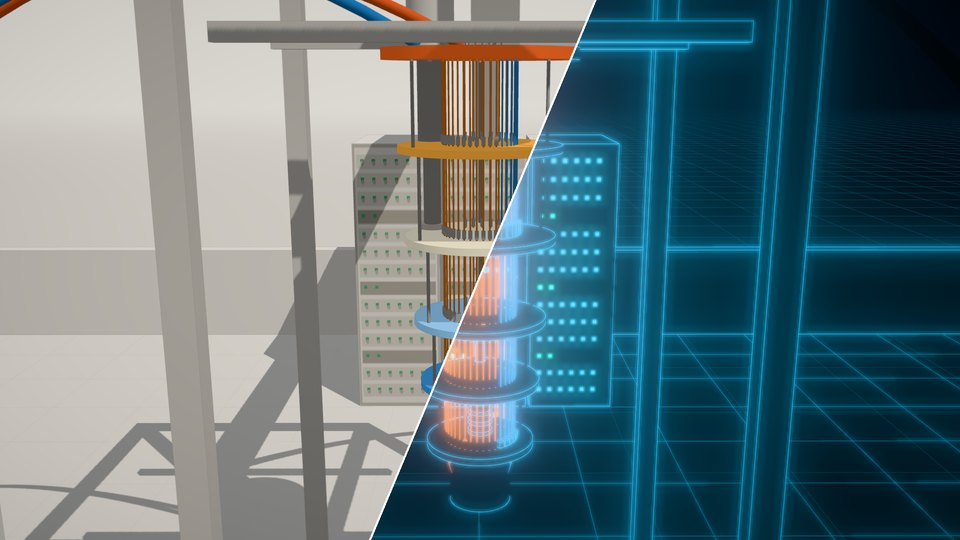
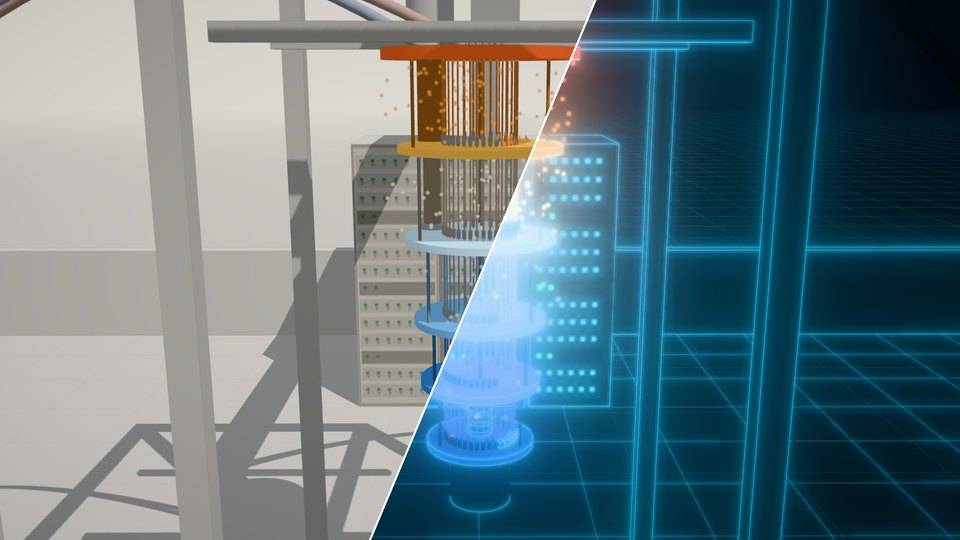
Quantum Computer: fridge coloured by temperature stage, heat-noise particles, no Warm switch
Every part inside the refrigerator takes the colour of its stage, also in
the blueprint look. Heat-noise particles thin out and slow down from plate
to plate. The Cold/Warm switch is removed; the card shows three fixed lines.
Card image, demos page text, sitemap and README follow.

Claude-Session: https://claude.ai/code/session_01YUkR2ymH5Hn7edDKs1J3vK

diff --git a/demos/quantum-computer/quantum.js b/demos/quantum-computer/quantum.js
@@ -48,7 +48,7 @@ const THERM=new THREE.Color('#c4c8cc');
 function pmat(day,night,o={}){
   const m=new THREE.MeshStandardMaterial({color:day,roughness:o.rough??0.86,metalness:o.metal??0,
     polygonOffset:true,polygonOffsetFactor:1,polygonOffsetUnits:1,...(o.extra||{})});
-  pal.push({m,day:new THREE.Color(day),night:new THREE.Color(night),therm:o.therm??1});
+  pal.push({m,day:new THREE.Color(day),night:new THREE.Color(night),therm:o.therm??1,stage:o.stage,glow:m.emissive.clone()});
   return m;
 }
 const glow=(c)=>({emissive:new THREE.Color(c),emissiveIntensity:0});
@@ -59,11 +59,11 @@ const M={
   dark:pmat('#8e8a83','#13213a'),
   pad:pmat('#ebe8e2','#060d19'),
   metal:pmat('#bdbab4','#101b30',{rough:.4,metal:.35}),
-  copper:pmat('#ead9c6','#161c2c',{rough:.5,metal:.1}),
-  pipeC:pmat('#2f7fc1','#0c2a48',{therm:0,extra:glow('#2f9be6')}),
-  pipeW:pmat('#d9643a','#3a1a10',{therm:0,extra:glow('#ff7a3d')}),
-  coaxD:pmat('#cf7a3a','#3a1a10',{therm:0,rough:.5,extra:glow('#ff9a4d')}),
-  coaxR:pmat('#3f8ccc','#0c2a48',{therm:0,rough:.5,extra:glow('#4fc3ff')}),
+  copper:pmat('#ead9c6','#161c2c',{rough:.5,metal:.1,stage:5}),
+  pipeC:pmat('#2f7fc1','#0c2a48',{extra:glow('#2f9be6')}),
+  pipeW:pmat('#d9643a','#3a1a10',{extra:glow('#ff7a3d')}),
+  coaxD:pmat('#cf7a3a','#3a1a10',{stage:5,rough:.5,extra:glow('#ff9a4d')}),
+  coaxR:pmat('#3f8ccc','#0c2a48',{stage:5,rough:.5,extra:glow('#4fc3ff')}),
   led:pmat('#58c48c','#0d3a2a',{therm:0,extra:glow('#59e0ff')}),
 };
 const groundMat=pmat('#dedad3','#050b16');groundMat.polygonOffset=false;
@@ -150,31 +150,38 @@ for(const s of [-1,1]){B.add(box(2*FR+0.09,0.09,0.09),M.grey,0,FLOOR+3.1,s*FR);B
 /* cryostat: plates (index 0 = room temperature flange) */
 const PY=[2.62,2.30,1.98,1.68,1.44,1.20], PR=[0.34,0.29,0.27,0.24,0.22,0.20], PT=[0.04,0.025,0.025,0.025,0.025,0.025];
 const GOLD=new THREE.Color('#dcc48f'), GOLD_NIGHT=new THREE.Color('#141d2e');
-const TCOL=['#d9643a','#e8a655','#d9d4c2','#8fc0e6','#4f97d8','#2f6fc1'].map(c=>new THREE.Color(c));
-const HOT=new THREE.Color('#d9643a');
+const TCOL=['#d9643a','#e9b45f','#b9d6e6','#74afe0','#3f84d2','#2a5cb5'].map(c=>new THREE.Color(c));
+// per-stage materials, so cables, rods and the dilution unit take the colour of the stage they sit in
+const GAPS=[0,1,2,3,4];
+const coaxDg=GAPS.map(i=>pmat('#cf7a3a','#3a1a10',{stage:i+.5,rough:.5,extra:glow('#ff9a4d')}));
+const coaxRg=GAPS.map(i=>pmat('#3f8ccc','#0c2a48',{stage:i+.5,rough:.5,extra:glow('#4fc3ff')}));
+const rodM=GAPS.map(i=>pmat('#bdbab4','#101b30',{stage:i+.5,rough:.4,metal:.35}));
+const cuAt=st=>pmat('#ead9c6','#161c2c',{rough:.5,metal:.1,stage:st});
+const COAX=[M.coaxD,M.coaxR,...coaxDg,...coaxRg];
 const plateM=PY.map(()=>new THREE.MeshStandardMaterial({color:'#dcc48f',roughness:.42,metalness:.25,polygonOffset:true,polygonOffsetFactor:1,polygonOffsetUnits:1}));
 PY.forEach((y,i)=>B.add(cyl(PR[i],PR[i],PT[i],48),plateM[i],0,y,0));
 for(let i=0;i<5;i++){const y0=PY[i]-PT[i]/2,y1=PY[i+1]+PT[i+1]/2;
-  for(const a of [30,150,270]){const r=PR[i+1]-0.03;B.add(cyl(.006,.006,y0-y1,8),M.metal,r*Math.cos(a*DEG),(y0+y1)/2,r*Math.sin(a*DEG),{edges:false});}}
+  for(const a of [30,150,270]){const r=PR[i+1]-0.03;B.add(cyl(.006,.006,y0-y1,8),rodM[i],r*Math.cos(a*DEG),(y0+y1)/2,r*Math.sin(a*DEG),{edges:false});}}
 // pulse tube cooler
 const PTX=0.215*Math.cos(215*DEG),PTZ=0.215*Math.sin(215*DEG);
 B.add(cyl(.085,.085,.26,24),M.light,PTX,2.77,PTZ);
 B.add(box(.17,.12,.21),M.grey,PTX,2.96,PTZ);
-B.add(cyl(.05,.05,PY[0]-PY[1]-0.03,16),M.metal,PTX,(PY[0]+PY[1])/2,PTZ);
-B.add(cyl(.032,.032,PY[1]-PY[2]-0.025,16),M.metal,PTX,(PY[1]+PY[2])/2,PTZ);
-B.add(cyl(.05,.05,.02,16),M.copper,PTX,PY[2]+0.0225,PTZ);
+B.add(cyl(.05,.05,PY[0]-PY[1]-0.03,16),rodM[0],PTX,(PY[0]+PY[1])/2,PTZ);
+B.add(cyl(.032,.032,PY[1]-PY[2]-0.025,16),rodM[1],PTX,(PY[1]+PY[2])/2,PTZ);
+B.add(cyl(.05,.05,.02,16),cuAt(2),PTX,PY[2]+0.0225,PTZ);
 // dilution unit down the middle
-B.add(cyl(.055,.055,.06,24),M.copper,0,PY[3]-0.0425,0);
-B.add(cyl(.012,.012,PY[3]-PY[5]-0.1,10),M.metal,0,(PY[3]+PY[5])/2-0.02,0,{edges:false});
-for(let k=0;k<5;k++) B.add(cyl(.046,.046,.014,24),M.copper,0,lerp(PY[4]-0.04,PY[5]+0.04,k/4),0);
-B.add(cyl(.02,.02,.09,12),M.copper,0,(PY[3]+PY[4])/2,0);
+const cu3=cuAt(3),cu35=cuAt(3.5),cu45=cuAt(4.5);
+B.add(cyl(.055,.055,.06,24),cu3,0,PY[3]-0.0425,0);
+B.add(cyl(.012,.012,PY[3]-PY[5]-0.1,10),rodM[4],0,(PY[3]+PY[5])/2-0.02,0,{edges:false});
+for(let k=0;k<5;k++) B.add(cyl(.046,.046,.014,24),cu45,0,lerp(PY[4]-0.04,PY[5]+0.04,k/4),0);
+B.add(cyl(.02,.02,.09,12),cu35,0,(PY[3]+PY[4])/2,0);
 B.add(cyl(.06,.06,.06,24),M.copper,0,PY[5]-0.0425,0);
 // coaxial lines
 const LR=0.13, LINES=[];
 const arc=(n,a0,a1,kind)=>{for(let k=0;k<n;k++){const a=lerp(a0,a1,n>1?k/(n-1):0)*DEG;LINES.push({x:LR*Math.cos(a),z:LR*Math.sin(a),kind,a});}};
 arc(12,65,175,'d');arc(6,5,55,'r');arc(8,245,345,'d');
-for(const l of LINES){const mat=l.kind==='d'?M.coaxD:M.coaxR;
-  for(let i=0;i<5;i++){const y0=PY[i]-PT[i]/2,y1=PY[i+1]+PT[i+1]/2;B.add(cyl(.0035,.0035,y0-y1,6),mat,l.x,(y0+y1)/2,l.z,{edges:false});}
+for(const l of LINES){const mats=l.kind==='d'?coaxDg:coaxRg;
+  for(let i=0;i<5;i++){const y0=PY[i]-PT[i]/2,y1=PY[i+1]+PT[i+1]/2;B.add(cyl(.0035,.0035,y0-y1,6),mats[i],l.x,(y0+y1)/2,l.z,{edges:false});}
   B.add(cyl(.006,.006,.03,8),M.metal,l.x,PY[0]+0.035,l.z,{edges:false});
   if(l.kind==='d'){for(let i=1;i<6;i++) B.add(box(.014,.03,.014),M.dark,l.x,PY[i]+PT[i]/2+0.02,l.z,{edges:false});}
   else{B.add(box(.03,.045,.022),M.grey,l.x,PY[2]+0.04,l.z,{ry:-l.a});B.add(box(.022,.022,.022),M.grey,l.x,PY[5]+0.03,l.z,{ry:-l.a});}
@@ -226,10 +233,10 @@ B.build(lab);
 const CANS=[[0.345,0.62,2.60,'#f4f2ed'],[0.30,0.72,2.285,'#e9e4d8'],[0.275,0.82,1.965,'#e0d9c8']].map(([r,y0,y1,col])=>{
   const mat=pmat(col,'#0b1424',{extra:{transparent:true}}),ed=emat(1),g=new THREE.Group();lab.add(g);
   const cb=new Bucket();cb.add(cyl(r,r,y1-y0,48),mat,0,(y0+y1)/2,0);cb.build(g,ed);return {g,mat,ed};});
-const shieldMat=pmat('#e3e0d9','#0a1221',{extra:{transparent:true}}),shieldEdge=emat(1);
+const shieldMat=pmat('#e3e0d9','#0a1221',{stage:5,extra:{transparent:true}}),shieldEdge=emat(1);
 const shield=new THREE.Group();lab.add(shield);
 {const sb=new Bucket();sb.add(cyl(.115,.115,.22,32),shieldMat,0,1.07,0);sb.build(shield,shieldEdge);}
-const lidMat=pmat('#ead9c6','#161c2c',{rough:.5,metal:.1,extra:{transparent:true}}),lidEdge=emat(1);
+const lidMat=pmat('#ead9c6','#161c2c',{rough:.5,metal:.1,stage:5,extra:{transparent:true}}),lidEdge=emat(1);
 const lid=new THREE.Group();lab.add(lid);
 {const lb=new Bucket();lb.add(box(.06,.005,.06),lidMat,0,0,0);lb.build(lid,lidEdge);}
 const LID_Y=CY+0.0035;
@@ -369,9 +376,15 @@ const sigU=pointsLayer(R_LINES.length*3,0.05,'#3d9bf0',lab);
 function linePath(l){const pts=[V(0.05,3.3,RACK_Z),V(0.05,3.3,0.02),V(l.x,PY[0]+0.05,l.z),V(l.x,PY[5]+0.0125,l.z)];const c=[0];for(let i=1;i<pts.length;i++)c.push(c[i-1]+pts[i].distanceTo(pts[i-1]));return {pts,c};}
 D_LINES.forEach(l=>l.path=linePath(l));R_LINES.forEach(l=>l.path=linePath(l));
 function along(path,u,out){const d=u*path.c[path.c.length-1];let i=1;while(i<path.c.length-1&&d>path.c[i])i++;const t=(d-path.c[i-1])/(path.c[i]-path.c[i-1]);return out.copy(path.pts[i-1]).lerp(path.pts[i],t);}
-const NOISE_N=260;
-const noise=pointsLayer(NOISE_N,0.07,'#ff6a3a',lab);
-const noiseSeed=Array.from({length:NOISE_N},()=>[rnd(),rnd(),rnd(),rnd()]);
+// heat noise between the plates: crowded and restless at the top, almost none and almost still at the bottom
+const NOISE_N=260, NOISE_W=[0.50,0.33,0.13,0.03,0.01], NOISE_SP=[1,0.55,0.22,0.08,0.03];
+const noiseSeed=[];
+{let g=0,acc=NOISE_W[0];for(let i=0;i<NOISE_N;i++){while(g<4&&i/NOISE_N>=acc){g++;acc+=NOISE_W[g];}noiseSeed.push([rnd(),rnd(),rnd(),rnd(),g]);}}
+const noise=(()=>{const g=new THREE.BufferGeometry();g.setAttribute('position',new THREE.BufferAttribute(new Float32Array(NOISE_N*3),3));
+  const col=new Float32Array(NOISE_N*3),c=new THREE.Color();
+  noiseSeed.forEach((sd,i)=>{const st=sd[4]+0.5,k=Math.min(4,Math.floor(st));c.copy(TCOL[k]).lerp(TCOL[k+1],st-k);col.set([c.r,c.g,c.b],i*3);});
+  g.setAttribute('color',new THREE.BufferAttribute(col,3));
+  const p=new THREE.Points(g,new THREE.PointsMaterial({size:0.055,map:dotTex,vertexColors:true,transparent:true,depthWrite:false,opacity:0}));p.frustumCulled=false;lab.add(p);return p;})();
 const chipDot=pointsLayer(1,0.11,'#8fe6ff',lab);chipDot.geometry.attributes.position.array.set([0,CY+0.002,0]);chipDot.material.blending=THREE.AdditiveBlending;
 
 /* night grid */
@@ -483,12 +496,9 @@ addEventListener('keydown',e=>{const tg=e.target;if(tg&&(tg.isContentEditable||/
 
 /* ---------------- UI state ---------------- */
 const QS=new URLSearchParams(location.search);
-let look=QS.get('look')||'auto',temp=QS.get('temp')||'cold';
+let look=QS.get('look')||'auto';
 const press=(sel,attr,val)=>document.querySelectorAll(sel).forEach(b=>b.setAttribute('aria-pressed',b.dataset[attr]===String(val)));
-const tempStats=document.getElementById('tempStats');
-function renderTemp(){tempStats.innerHTML=[1,2,3].map(i=>`<dt>${escHtml(txt(`fridge.stat${i}.label`))}</dt><dd>${escHtml(txt(`fridge.stat${i}.${temp}`))}</dd>`).join('');press('[data-temp]','temp',temp);}
-renderTemp();press('[data-look]','look',look);
-document.querySelectorAll('[data-temp]').forEach(b=>b.onclick=()=>{temp=b.dataset.temp;renderTemp();});
+press('[data-look]','look',look);
 document.querySelectorAll('[data-look]').forEach(b=>b.onclick=()=>{look=b.dataset.look;press('[data-look]','look',look);});
 const U=1.44;
 const maxScroll=()=>document.documentElement.scrollHeight-innerHeight;
@@ -542,7 +552,7 @@ function flipQubit(k,time=nowS()){ if(qec.state==='fail'||k===undefined||k<0||!d
   if(!qec.flips.size){qec.state='idle';qec.idleAt=time;return;}
   if(qec.state!=='detect'){qec.state='detect';qec.t0=time;}else qec.t0=Math.max(qec.t0,time-0.5);}
 renderQec();
-COPY.onChange(k=>{if(k.startsWith('label.'))CALLOUTS.forEach(c=>{if(c.key===k)c.w=0;});if(k.startsWith('fridge.stat'))renderTemp();if(k.startsWith('qec.stat'))renderQec();if(k.startsWith('state.status'))renderState();});
+COPY.onChange(k=>{if(k.startsWith('label.'))CALLOUTS.forEach(c=>{if(c.key===k)c.w=0;});if(k.startsWith('qec.stat'))renderQec();if(k.startsWith('state.status'))renderState();});
 
 /* ---- pointer ---- */
 let ptx=0,pty=0,mx=0,my=0;
@@ -559,7 +569,7 @@ function resize(){const w=innerWidth,h=innerHeight;arrowMat.resolution.set(w,h);
 addEventListener('resize',resize);resize();
 
 const FORCE_P=QS.has('p')?parseFloat(QS.get('p')):null;
-let pS=FORCE_P??0,night=0,warmT=temp==='warm'?1:0,last=performance.now(),frames=0;
+let pS=FORCE_P??0,night=0,last=performance.now(),frames=0;
 const cam={t:V(0,0,0),d:1,az:0,el:0};
 const tmpC=new THREE.Color(),tmpV=V(0,0,0),pv=V(0,0,0);
 const WHITE=new THREE.Color(1,1,1),RED=new THREE.Color('#ff3b30'),AMBER=new THREE.Color('#ffb02e'),
@@ -568,7 +578,7 @@ const arrowArr=arrowGeo.attributes.instanceStart.data;
 
 function fmtLen(m){if(m>=1000)return (m/1000).toFixed(1)+' km';if(m>=1)return m.toFixed(m>=100?0:1)+' m';if(m>=0.01)return (m*100).toFixed(1)+' cm';
   if(m>=0.001)return (m*1000).toFixed(1)+' mm';if(m>=1e-6)return (m*1e6).toFixed(m>=1e-4?0:1)+' µm';return (m*1e9).toFixed(0)+' nm';}
-function tempAt(c,opened){if(warmT>0.5||c.d>5||opened<0.5)return '293 K';const y=c.t.y;
+function tempAt(c,opened){if(c.d>5||opened<0.5)return '293 K';const y=c.t.y;
   return y>2.46?'293 K':y>2.14?'50 K':y>1.83?'4 K':y>1.56?'0.8 K':y>1.32?'0.1 K':'0.01 K';}
 
 function frame(now){
@@ -582,7 +592,6 @@ function frame(now){
   const nightTarget=look==='auto'?nightAuto:(look==='blueprint'?1:0);
   night+=(nightTarget-night)*(1-Math.exp(-dt*(look==='auto'?14:3.5)));
   if(FORCE_P!==null) night=nightTarget;
-  warmT+=((temp==='warm'?1:0)-warmT)*(1-Math.exp(-dt*4));
   const closeT=1-sstep(1.235,1.27,p);
   const thermal=sstep(.215,.26,p)*(1-sstep(.375,.41,p));
   const canT=CANS.map((c,i)=>sstep(.17+i*.02,.235+i*.02,p)*closeT);
@@ -595,8 +604,9 @@ function frame(now){
   const hallT=sstep(1.265,1.335,p);
 
   /* palette */
-  for(const e of pal){e.m.color.copy(e.day).lerp(THERM,thermal*0.5*e.therm).lerp(e.night,night);}
-  plateM.forEach((m,i)=>{tmpC.copy(TCOL[i]).lerp(HOT,warmT);m.color.copy(GOLD).lerp(tmpC,thermal*0.95).lerp(GOLD_NIGHT,night);m.emissive.copy(tmpC);m.emissiveIntensity=thermal*0.38*(1-night);});
+  const stageCol=st=>{const i=Math.min(4,Math.floor(st));return tmpC.copy(TCOL[i]).lerp(TCOL[i+1],st-i);};
+  for(const e of pal){e.m.color.copy(e.day);if(e.stage!==undefined){e.m.color.lerp(stageCol(e.stage),thermal*0.92);if(e.glow.r+e.glow.g+e.glow.b>0)e.m.emissive.copy(e.glow).lerp(tmpC,thermal);}else e.m.color.lerp(THERM,thermal*0.7*e.therm);e.m.color.lerp(e.night,night);}
+  plateM.forEach((m,i)=>{tmpC.copy(TCOL[i]);m.color.copy(GOLD).lerp(tmpC,thermal*0.95).lerp(GOLD_NIGHT,night);m.emissive.copy(tmpC);m.emissiveIntensity=thermal*lerp(0.38,0.55,night);});
   for(const m of edgeMats){m.color.copy(EDGE_DAY).lerp(EDGE_NIGHT,night);m.opacity=lerp(.2,.85,night)*m.userData.k;m.visible=m.opacity>0.003;}
   gridMat.opacity=night*0.08*(1-sstep(0.5,2.5,1/Math.max(cam.d,1e-9)));
   scene.background.copy(DAY_BG).lerp(NIGHT_BG,night);scene.fog.color.copy(scene.background);
@@ -604,7 +614,7 @@ function frame(now){
   hemi.intensity=lerp(1.3,0.05,night);sun.intensity=lerp(2.4,0,night);
   const beat=0.5+0.5*Math.sin(time*5);
   M.pipeC.emissiveIntensity=M.pipeW.emissiveIntensity=night*0.45;
-  M.coaxD.emissiveIntensity=M.coaxR.emissiveIntensity=night*lerp(0.1,0.42,sstep(0.25,1.6,cam.d))*(0.8+0.3*beat);
+  {const ci=night*lerp(0.1,0.42,sstep(0.25,1.6,cam.d))*(0.8+0.3*beat);for(const m of COAX)m.emissiveIntensity=ci;}
   M.led.emissiveIntensity=night*3;rackFront.emissiveIntensity=night*(1.2+0.5*beat);
   chipTop.emissiveIntensity=night*(0.85+0.25*Math.sin(time*2.2));
   {const zf=sstep(0.00004,0.0012,cam.d);heroMat.emissiveIntensity=night*(0.03+zf*(0.13+0.05*Math.sin(time*2.2)));
@@ -629,12 +639,14 @@ function frame(now){
      sigD.material.opacity=o;sigU.material.opacity=o*0.9;
      sigD.material.color.set(night>.5?'#ffb35c':'#e07a2c');sigU.material.color.set(night>.5?'#6fd6ff':'#2f7fc1');
      sigD.material.size=sigU.material.size=clamp(cam.d*0.02,0.012,0.11);}}
-  /* heat noise when the fridge is warm */
-  {const o=thermal*warmT;noise.visible=o>0.01;
+  /* heat noise, paced by the stage it sits in */
+  {const o=thermal;noise.visible=o>0.01;
    if(noise.visible){const a=noise.geometry.attributes.position.array;
-     for(let i=0;i<NOISE_N;i++){const [s1,s2,s3,s4]=noiseSeed[i];const ang=s1*6.283+tt*(0.6+s3),r=0.05+s2*0.27,y=lerp(0.95,2.58,(s4+tt*0.07*(s3-.5)+10)%1);
-       a.set([r*Math.cos(ang)+Math.sin(tt*9*s3+i)*0.012,y+Math.sin(tt*11*s2+i)*0.012,r*Math.sin(ang)+Math.cos(tt*8*s1+i)*0.012],i*3);}
-     noise.geometry.attributes.position.needsUpdate=true;noise.material.opacity=o*0.85;}}
+     for(let i=0;i<NOISE_N;i++){const [s1,s2,s3,s4,g]=noiseSeed[i],sp=NOISE_SP[g];
+       const yT=PY[g]-PT[g]/2-0.012,yB=PY[g+1]+PT[g+1]/2+0.012,amp=0.004+0.014*Math.sqrt(sp),f=1+13*sp;
+       const ang=s1*6.283+tt*sp*(0.5+s3)*1.7,r=0.03+s2*(PR[g+1]+0.03),y=lerp(yB,yT,(s4+tt*sp*0.5*(s3-.5)+10)%1);
+       a.set([r*Math.cos(ang)+Math.sin(tt*f*(0.7+s3)+i)*amp,y+Math.sin(tt*f*(0.6+s2)+i*1.7)*amp,r*Math.sin(ang)+Math.cos(tt*f*(0.8+s1)+i*2.3)*amp],i*3);}
+     noise.geometry.attributes.position.needsUpdate=true;noise.material.opacity=o*lerp(0.9,1,night);noise.material.blending=night>.5?THREE.AdditiveBlending:THREE.NormalBlending;}}
   chipDot.material.opacity=night*sstep(0.12,0.5,cam.d)*(1-hallT)*(0.7+0.3*beat);chipDot.visible=chipDot.material.opacity>0.01;
   chipDot.material.size=clamp(cam.d*0.035,0.02,0.2);
 

diff --git a/demos/quantum-computer/index.html b/demos/quantum-computer/index.html
@@ -48,7 +48,7 @@ body.night .look button[aria-pressed=true],body.night .seg button[aria-pressed=t
 .scale{position:fixed;left:28px;bottom:24px;z-index:5;display:flex;gap:30px;align-items:flex-end;font:400 11px/1.4 'IBM Plex Mono',monospace;color:var(--ink2);letter-spacing:.04em}
 .scale b{display:block;font-weight:500;color:var(--ink);font-size:13px;font-variant-numeric:tabular-nums}
 .scale .bar{width:90px;height:6px;border:1px solid var(--ink2);border-top:0;margin-top:6px}
-.scale .bar.t{border:0;height:6px;border-bottom:1px solid var(--ink2);background:linear-gradient(90deg,#2f6fc1,#8fc0e6 40%,#e8a655 75%,#d9643a);opacity:.85}
+.scale .bar.t{border:0;height:6px;border-bottom:1px solid var(--ink2);background:linear-gradient(90deg,#2a5cb5,#3f84d2,#74afe0,#b9d6e6,#e9b45f,#d9643a);opacity:.9}
 .hint{position:fixed;left:50%;bottom:26px;transform:translateX(-50%);z-index:5;font:500 10.5px/1 'IBM Plex Mono',monospace;letter-spacing:.14em;text-transform:uppercase;color:var(--ink2);display:flex;flex-direction:column;align-items:center;gap:10px;transition:opacity .5s}
 .hint i{display:block;width:1px;height:34px;background:linear-gradient(var(--ink2),transparent);animation:drip 1.8s ease-in-out infinite}
 @keyframes drip{0%{transform:scaleY(0);transform-origin:top}50%{transform:scaleY(1);transform-origin:top}51%{transform-origin:bottom}100%{transform:scaleY(0);transform-origin:bottom}}
@@ -67,6 +67,7 @@ body.night .look button[aria-pressed=true],body.night .seg button[aria-pressed=t
 .stats dt{color:var(--ink2);opacity:.8}.stats dd{margin:0;color:var(--ink)}
 .legend{display:flex;gap:14px;margin-top:14px;font:400 11px/1 'IBM Plex Mono',monospace;color:var(--ink2)}
 .legend i{display:inline-block;width:9px;height:9px;border-radius:2px;margin-right:6px;vertical-align:-1px}
+.legend.ramp{align-items:center;gap:10px}.legend.ramp i{flex:1;height:8px;margin:0;border-radius:4px;background:linear-gradient(90deg,#d9643a,#e9b45f,#b9d6e6,#74afe0,#3f84d2,#2a5cb5)}
 .note{margin-top:10px!important;font:400 11px/1.5 'IBM Plex Mono',monospace!important;opacity:.8}
 .credits a{color:var(--accent2);text-decoration:none;border-bottom:1px solid currentColor}
 .credits .small{margin-top:14px;font:400 11px/1.5 'IBM Plex Mono',monospace;opacity:.8}
@@ -161,12 +162,9 @@ body.night .tag.ok{color:#04101e;background:var(--accent2)}body.night .tag.ok::a
   <div class="kicker" data-copy="fridge.kicker">02 · The fridge</div>
   <h2 data-copy="fridge.title">Six plates, each colder than the last</h2>
   <p data-copy="fridge.text">Take the shields off and the chandelier appears. A dilution refrigerator cools in stages, from room temperature at the top to about a hundredth of a degree above absolute zero at the bottom. Outer space is 270 times warmer.</p>
-  <div class="seg ui" role="group" aria-label="Fridge temperature">
-    <button data-temp="cold" aria-pressed="true" data-copy="fridge.cold">Cold</button>
-    <button data-temp="warm" aria-pressed="false" data-copy="fridge.warm">Warm</button>
-  </div>
-  <dl class="stats" id="tempStats"></dl>
-  <div class="legend"><span><i style="background:#d9643a"></i><span data-copy="fridge.legend.warm">Warmer</span></span><span><i style="background:#2f6fc1"></i><span data-copy="fridge.legend.cold">Colder</span></span></div>
+  <dl class="stats" style="margin-top:16px"><dt data-copy="fridge.stat1.label">Heat noise at 293 K</dt><dd data-copy="fridge.stat1">≈ 1,200 photons per mode at 5 GHz</dd><dt data-copy="fridge.stat2.label">Heat noise at 0.01 K</dt><dd data-copy="fridge.stat2">practically none</dd><dt data-copy="fridge.stat3.label">Aluminium below 1.2 K</dt><dd data-copy="fridge.stat3">superconducting</dd></dl>
+  <p class="note" data-copy="fridge.dots">The dots are heat noise: crowded and restless at the top, almost gone at the bottom.</p>
+  <div class="legend ramp"><span data-copy="fridge.legend.warm">Warmer</span><i></i><span data-copy="fridge.legend.cold">Colder</span></div>
 </section>
 <section class="card ui" data-a="0.40" data-b="0.49">
   <div class="kicker" data-copy="wiring.kicker">03 · Wiring</div>

diff --git a/demos/index.html b/demos/index.html
@@ -50,7 +50,7 @@
             <details>
               <summary>More<span class="sr"> about The Quantum Computer</span></summary>
               <p>A 3D tour of a superconducting quantum computer. The shields come off the refrigerator to show its six plates, each colder than the last, and the camera zooms without a cut from the room to a chip, one qubit and a junction a fraction of a thousandth of a millimetre wide. Then the lights go out and the signals glow. It starts as a white architectural model and turns into a blueprint; you can switch between the two looks at any time.</p>
-              <p>Warm the refrigerator up to see why it has to be cold, steer a qubit on its sphere and measure it, and click or tap qubits to flip them and watch the error correction catch them, until you flip too many at once. Best on a computer; it runs on a phone too. The figures are illustrative, as of late 2026.</p>
+              <p>Watch the heat noise thin out from one plate to the next, steer a qubit on its sphere and measure it, and click or tap qubits to flip them and watch the error correction catch them, until you flip too many at once. Best on a computer; it runs on a phone too. The figures are illustrative, as of late 2026.</p>
             </details>
           </div>
         </li>

diff --git a/README.md b/README.md
@@ -10,4 +10,4 @@ Personal website - andreasbraun.lu
 
 All of its text lives in `demos/ai-gigafactory/copy.json` (`*italic*`, `[link](url)`, `{placeholders}` filled in by the page). Open the page with `#edit` at the end of the address to edit texts in place or in the "All texts" panel; "Copy changes" copies the edited texts as JSON. To apply such changes, update `copy.json`, then run `python _dev/sync-copy.py demos/ai-gigafactory` so the static HTML matches. The editor is `copy-edit.js` in the same folder.
 
-`demos/quantum-computer/` is the scroll-through quantum computer explainer, built the same way: `index.html` (markup and styles), `quantum.js` (scene and choreography), `copy.json` (all text) and its own copy of `copy-edit.js`. It loads three.js and the fonts from `demos/ai-gigafactory/vendor/` and `demos/ai-gigafactory/fonts/`, so keep those when changing the gigafactory demo. Add `?p=` (0 to 1.44) to jump to a scroll position, `?look=model` or `?look=blueprint` to fix the look, `?temp=warm` for the warm refrigerator and `?d=3`, `5` or `7` for the code distance. Texts are edited as above: `#edit` on the page, then `python _dev/sync-copy.py demos/quantum-computer`.
+`demos/quantum-computer/` is the scroll-through quantum computer explainer, built the same way: `index.html` (markup and styles), `quantum.js` (scene and choreography), `copy.json` (all text) and its own copy of `copy-edit.js`. It loads three.js and the fonts from `demos/ai-gigafactory/vendor/` and `demos/ai-gigafactory/fonts/`, so keep those when changing the gigafactory demo. Add `?p=` (0 to 1.44) to jump to a scroll position, `?look=model` or `?look=blueprint` to fix the look and `?d=3`, `5` or `7` for the code distance. Texts are edited as above: `#edit` on the page, then `python _dev/sync-copy.py demos/quantum-computer`.
